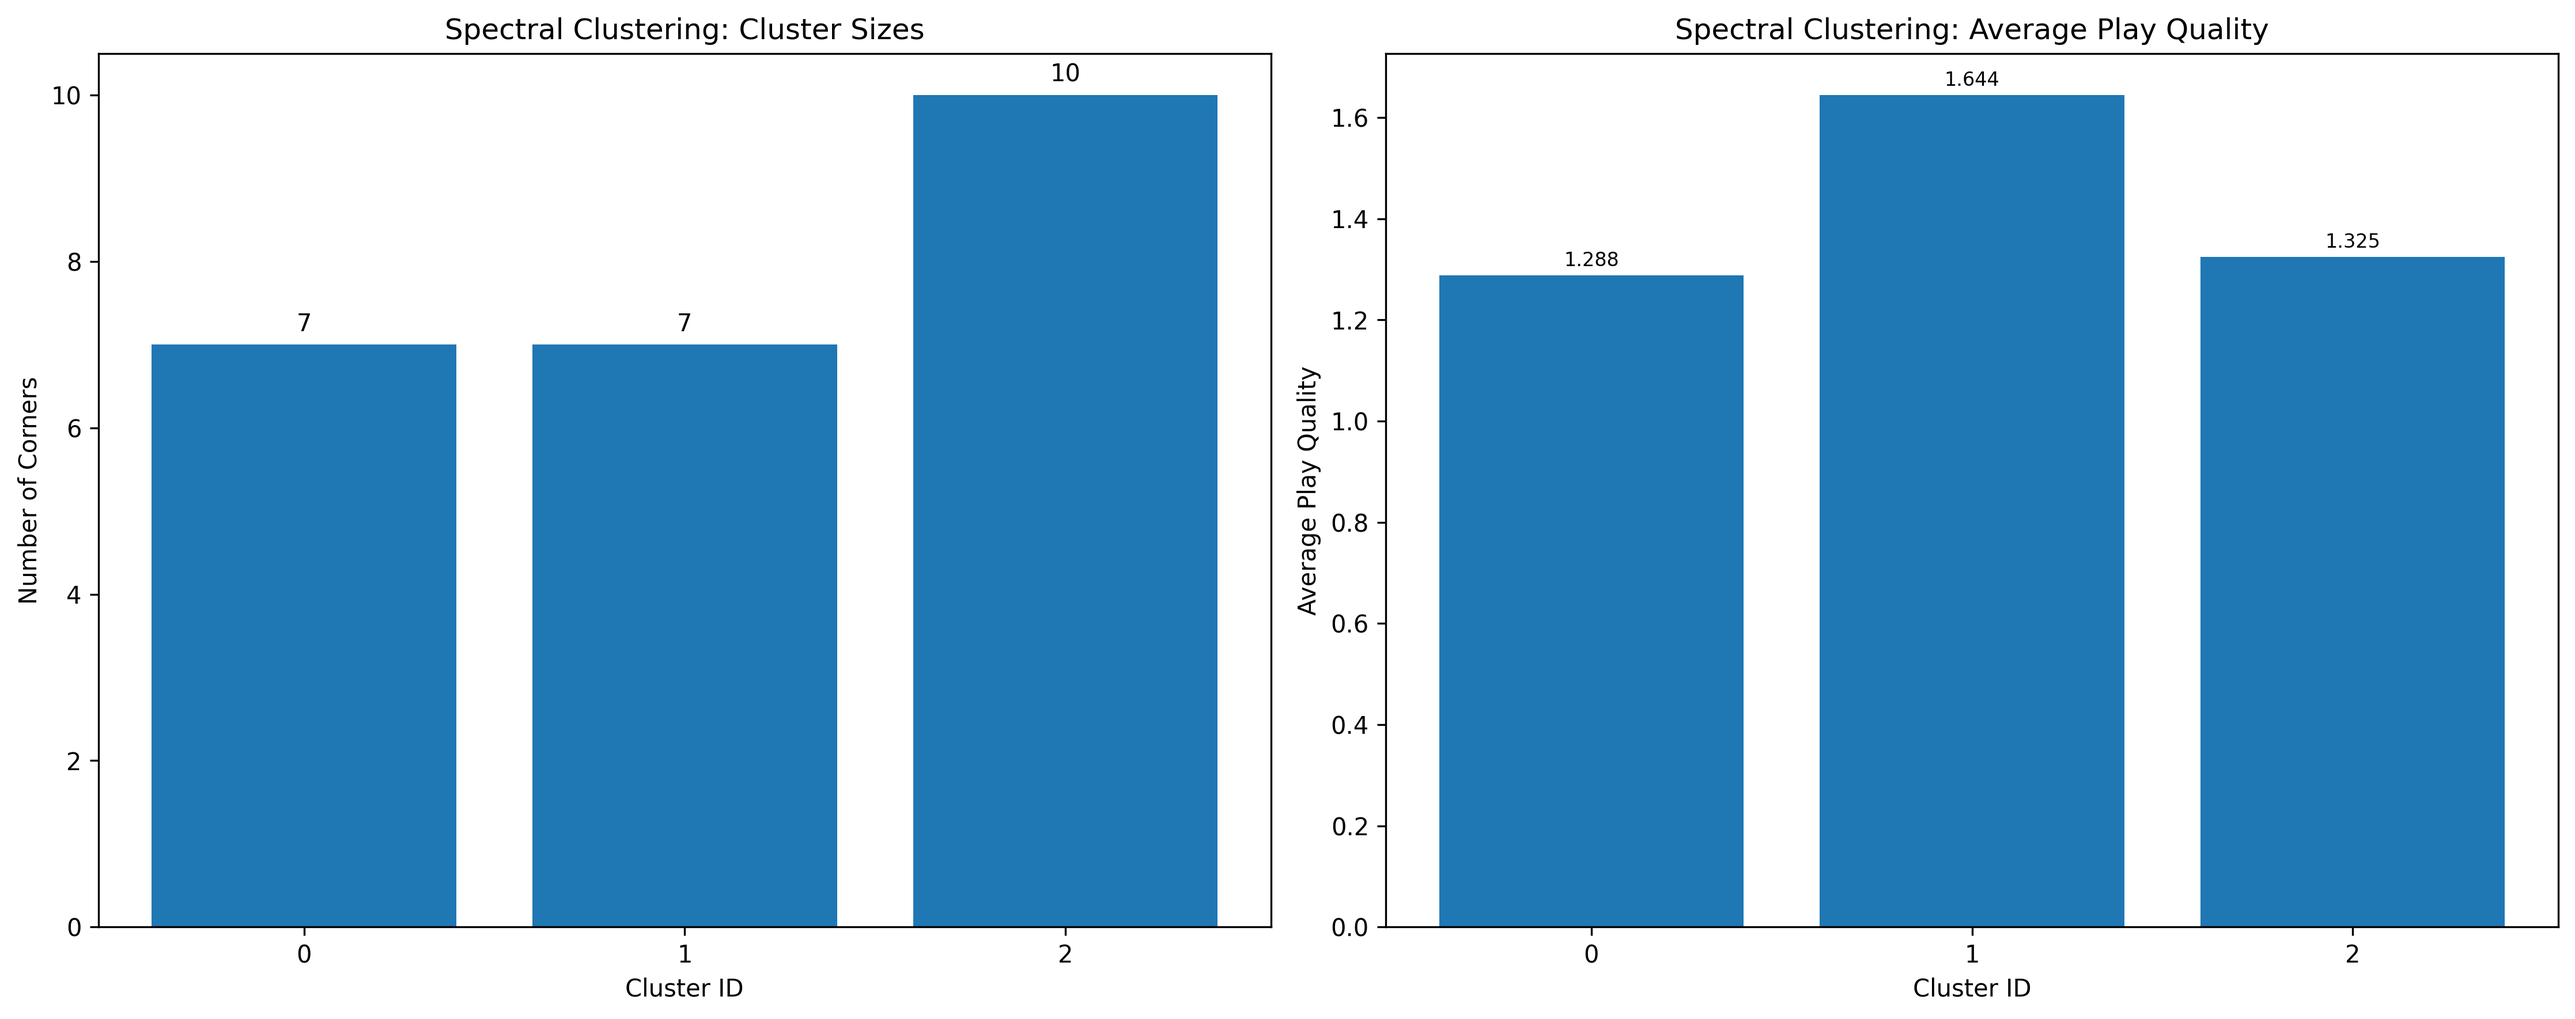
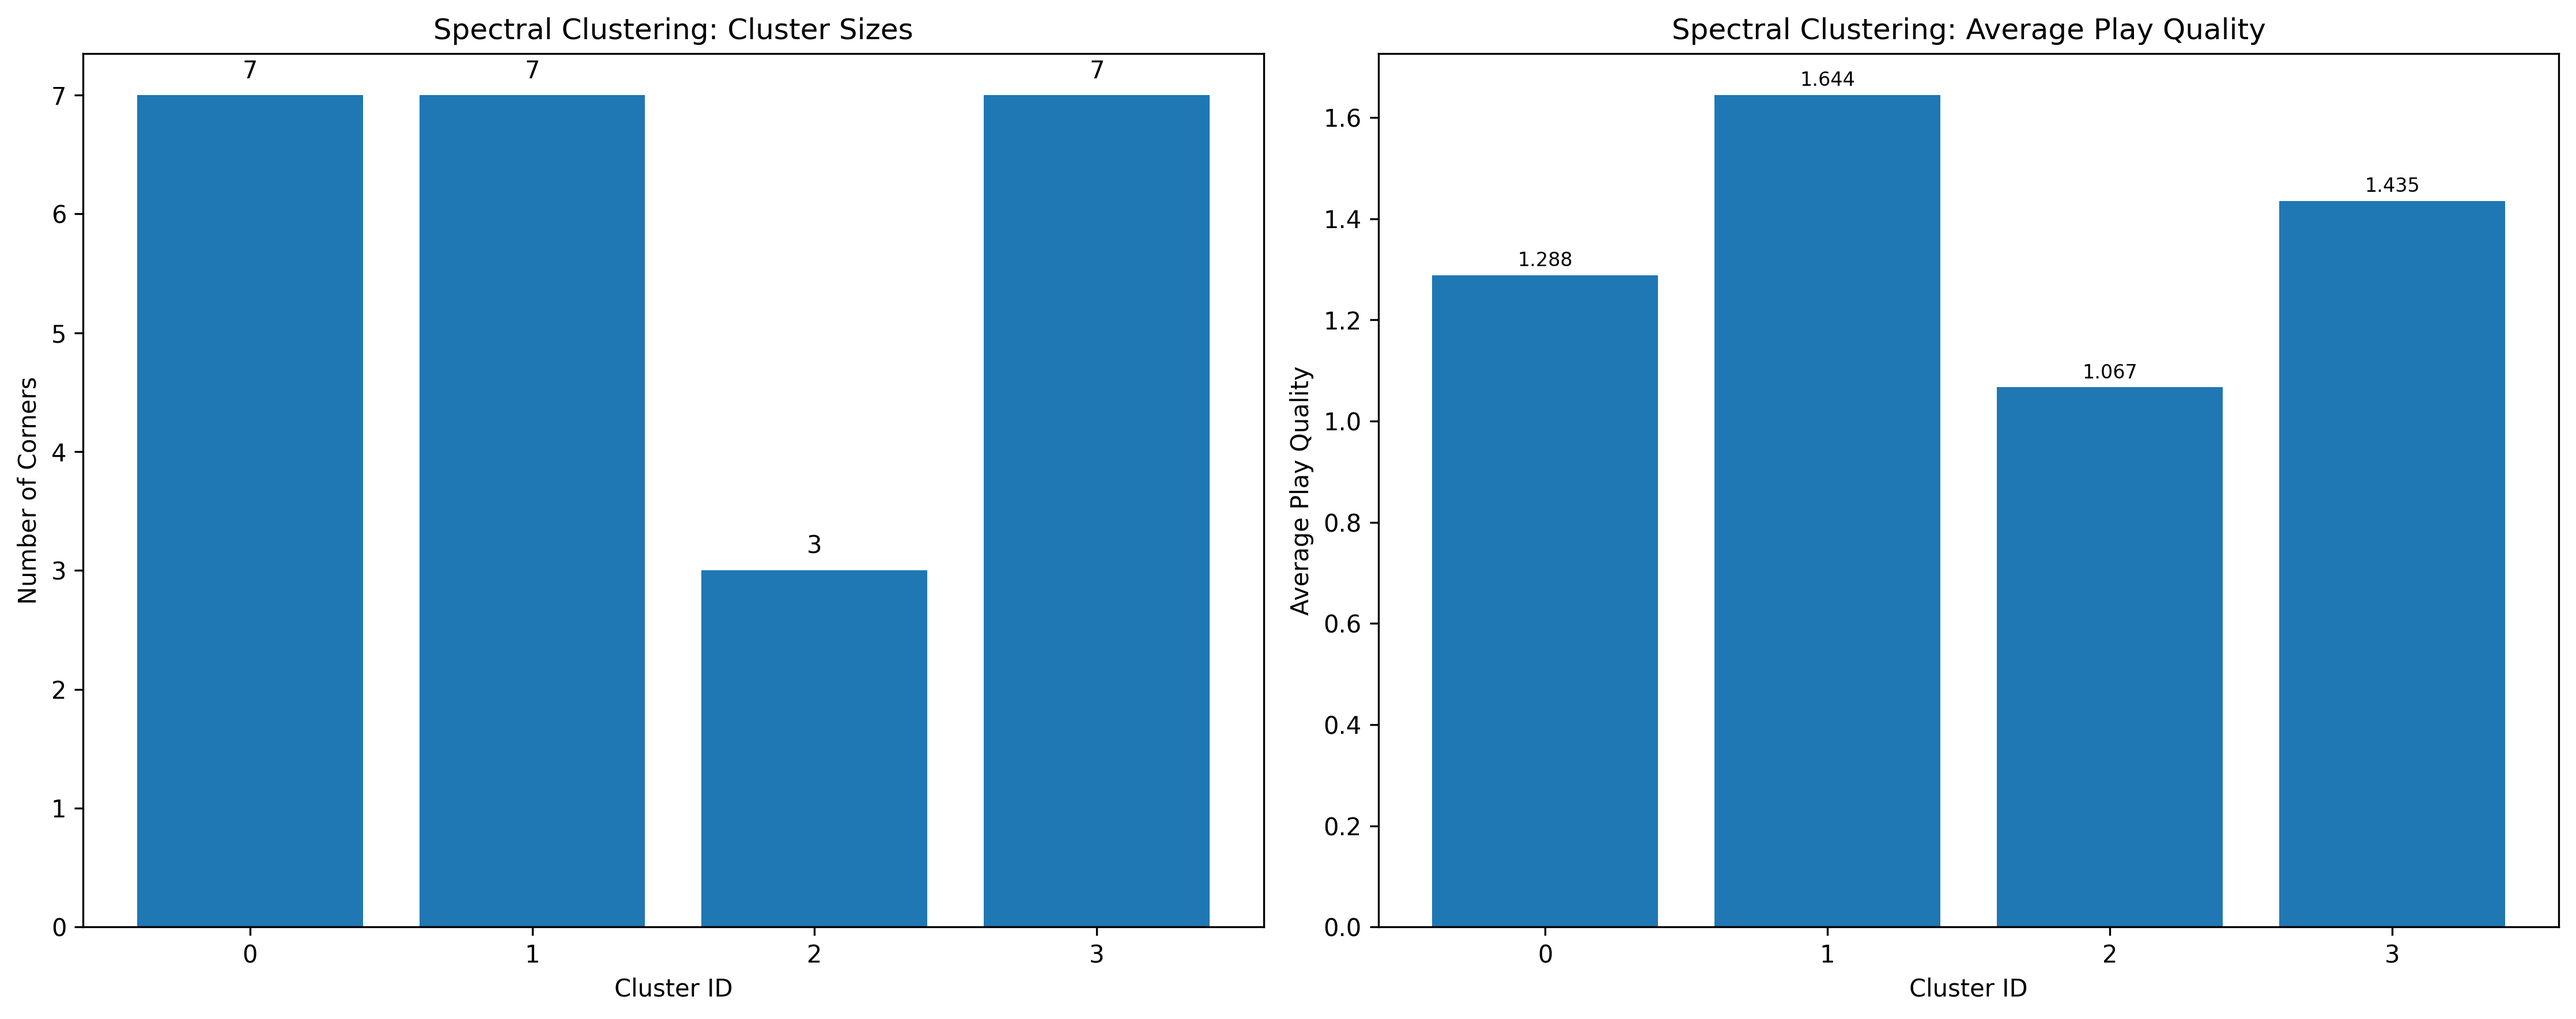
add tuning

diff --git a/clustering/similarity.py b/clustering/similarity.py
@@ -126,7 +126,11 @@ class SimilarityCalculator:
             start_distance = euclidean((start1_x, start1_y), (start2_x, start2_y))
             start_similarity = 1 - start_distance / np.sqrt(2)
 
-            # Component 2: Path length difference
+            # Component 2: End position distance
+            end_distance = euclidean((end1_x, end1_y), (end2_x, end2_y))
+            end_similarity = 1 - end_distance / np.sqrt(2)
+
+            # Component 3: Path length difference
             path1_length = euclidean((start1_x, start1_y), (end1_x, end1_y))
             path2_length = euclidean((start2_x, start2_y), (end2_x, end2_y))
 
@@ -137,7 +141,7 @@ class SimilarityCalculator:
                     path1_length + path2_length
                 )
 
-            # Component 3: Path direction difference
+            # Component 4: Path direction difference
             if path1_length > 0 and path2_length > 0:
                 path1_direction = (
                     (end1_x - start1_x) / path1_length,
@@ -162,6 +166,8 @@ class SimilarityCalculator:
             path_similarity = (
                 self.similarity_settings["path_similarity_weights"]["start_similarity"]
                 * start_similarity
+                + self.similarity_settings["path_similarity_weights"]["end_similarity"]
+                * end_similarity
                 + self.similarity_settings["path_similarity_weights"][
                     "length_similarity"
                 ]

diff --git a/tools/settings.py b/tools/settings.py
@@ -89,7 +89,7 @@ MIRRORED_CORNER_ZONES = {
 }
 
 ROLES = {
-    "Shot target": 1,
+    "Shot target": 1.0,
     "Pass target": 0.5,
     "Second target": 0.5,
     "Blocker": 0.1,
@@ -98,9 +98,9 @@ ROLES = {
 }
 
 MARKING = {
-    "Free": 1,
-    "Freed by blocker": 1,
-    "Blocking": 1,
+    "Free": 1.0,
+    "Freed by blocker": 1.0,
+    "Blocking": 1.0,
     "Gained separation": 0.8,
     "Goal marked": 0.3,
     "Watched zonally": 0.3,
@@ -110,22 +110,23 @@ MARKING = {
 # Role importance hierarchy for similarity clustering
 ROLE_WEIGHTS = {
     "Shot target": 1.0,
-    "Pass target": 0.8,
-    "Second target": 0.6,
+    "Pass target": 0.9,
+    "Second target": 0.2,
     "Decoy": 0.8,
-    "Blocker": 0.6,
+    "Blocker": 0.1,
     "Mop up": 0.01,
 }
 
 SIMILARITY_SETTINGS = {
     "component_weights": {
-        "role_weighted_path_similarity": 0.5,
-        "role_composition_similarity": 0.3,
-        "player_count_similarity": 0.2,
+        "role_weighted_path_similarity": 0.7,
+        "role_composition_similarity": 0.2,
+        "player_count_similarity": 0.1,
     },
     "path_similarity_weights": {
-        "start_similarity": 0.4,
-        "length_similarity": 0.3,
-        "direction_similarity": 0.3,
+        "start_similarity": 0.05,
+        "end_similarity": 0.5,
+        "length_similarity": 0.4,
+        "direction_similarity": 0.05,
     },
 }
